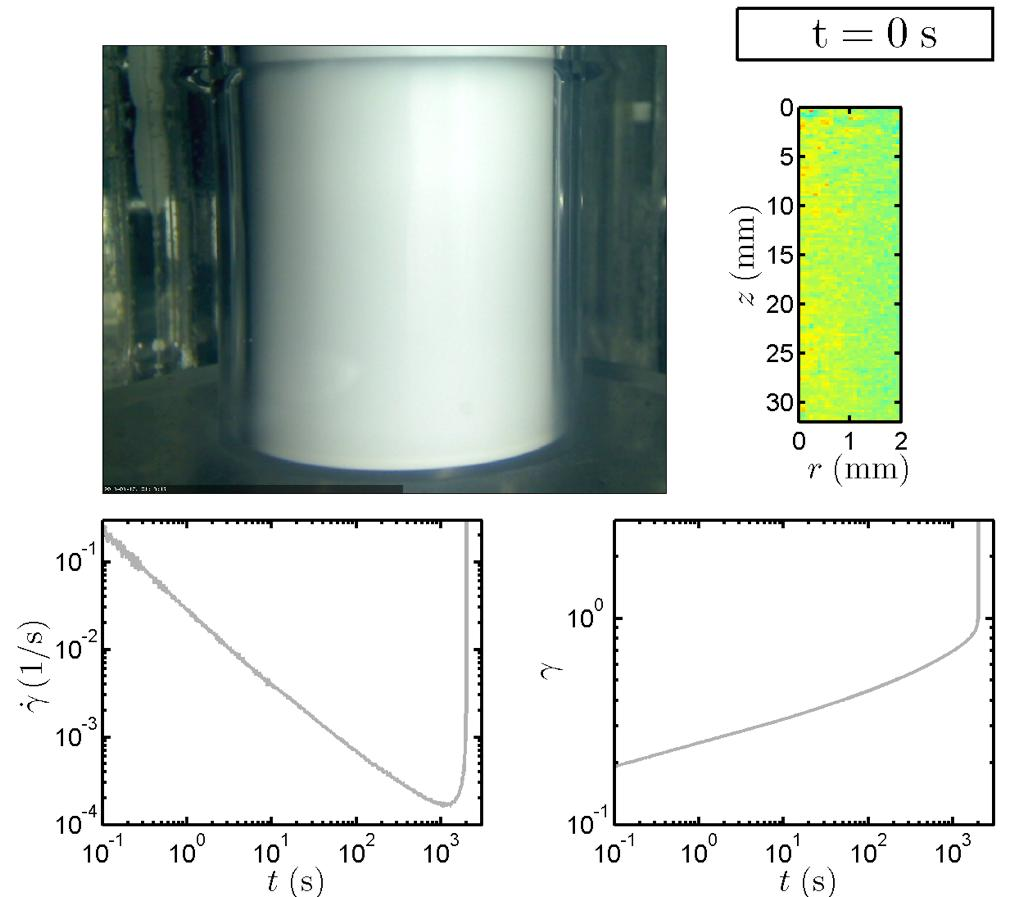
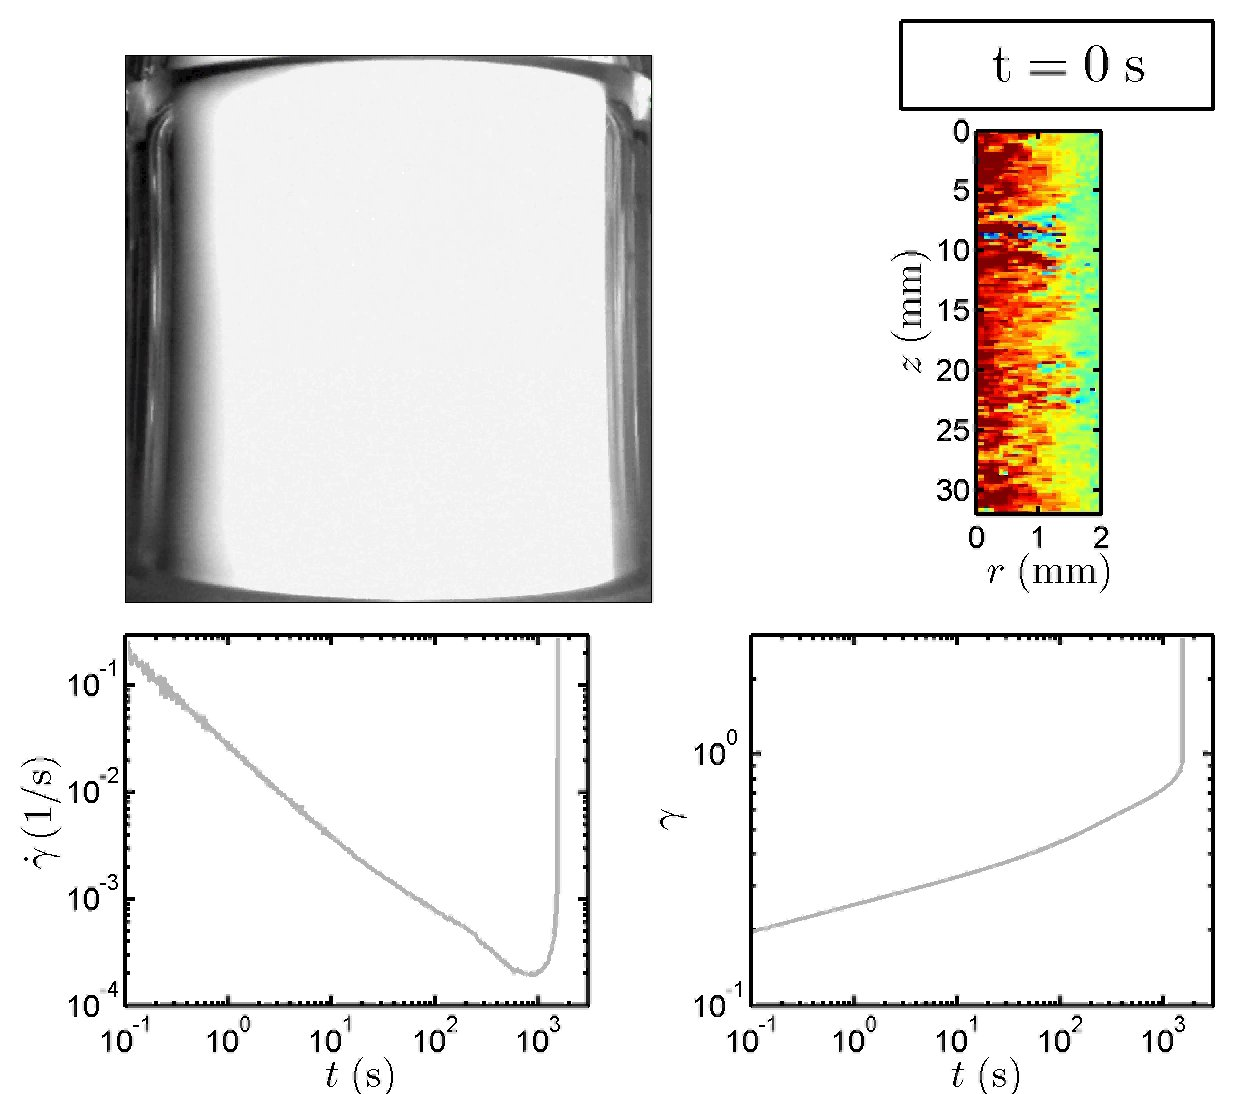
use the enhanced version of the creep_experiment video, update Couette sketch

diff --git a/seminaire_Tanakalab.tex b/seminaire_Tanakalab.tex
@@ -183,7 +183,7 @@ Wikimedia Commons & www.madaboutscience.com & www.keautystore.com\\
 %\section{Our system: Yoghurt}
 
 
-\tikzset{external/force remake}
+%\tikzset{external/force remake}
 \begin{frame}{Acid-set protein gel (Yoghurt)}
 \begin{block}{Recipe}
 \begin{itemize}
@@ -286,7 +286,7 @@ Wikimedia Commons & www.madaboutscience.com & www.keautystore.com\\
 
 
 
-\section{Creep and yielding}
+\section*{Creep and yielding}
 
 \begin{frame}{Merciless yoghurt breakers}
 \begin{tabu}{X[c]X[c]c}
@@ -319,29 +319,30 @@ E.N.S. Lyon &  CRPP Bordeaux & E.N.S. Lyon\\
 \end{tikzpicture}
 \end{frame}
 
-%\tikzset{external/force remake}
+\tikzset{external/force remake}
 \begin{frame}{The yoghurt creep experiment}
 \movie[externalviewer]{\begin{tikzpicture}
 \node[inner sep=0] (a) {\includegraphics[height=16\baselineskip]{creep_experiment.jpg}};
-\begin{scope}[shift={(a.north west)}, shift={(7.2\baselineskip,-1.1\baselineskip)}, ultra thick]
-	\draw[Accent1] ellipse[x radius=2.9\baselineskip, y radius=0.7\baselineskip] ++(2.9\baselineskip,0)  -- ++(0,-6.6\baselineskip)  ++(-2.9\baselineskip,0) ellipse[x radius=2.9\baselineskip, y radius=0.7\baselineskip] ++(-2.9\baselineskip,0)  -- ++(0,6.6\baselineskip);
-	\shadedraw[Accent2,ball color=Accent2] ellipse[x radius=2\baselineskip, y radius=0.4\baselineskip] ++(2\baselineskip,0)  -- ++(0,-6.6\baselineskip)  ++(-2\baselineskip,0) ellipse[x radius=2\baselineskip, y radius=0.4\baselineskip] ++(-2\baselineskip,0)  -- ++(0,6.6\baselineskip);
+\begin{scope}[shift={(a.north west)}, shift={(5.8\baselineskip,-1.1\baselineskip)}, ultra thick]
+	\draw[Accent1, x radius=3.1\baselineskip, y radius=0.3\baselineskip] ellipse ++(3.1\baselineskip,0)  -- ++(0,-7.4\baselineskip)  ++(-3.1\baselineskip,0) ellipse[] ++(-3.1\baselineskip,0)  -- ++(0,7.4\baselineskip);
+	\shadedraw[Accent2,ball color=Accent2, x radius=2\baselineskip, y radius=0.1\baselineskip] ellipse ++(2\baselineskip,0)  -- ++(0,-7.4\baselineskip)  ++(-2\baselineskip,0) ellipse[] ++(-2\baselineskip,0)  -- ++(0,7.4\baselineskip);
 	\fill[Accent2, left color=black,right color=black, middle color=Accent2, ] (-0.3\baselineskip,0) rectangle +(0.6\baselineskip, \baselineskip);
 	\begin{scope}[Main]
-		\node[draw, minimum height=3.5\baselineskip, minimum width=1.2\baselineskip] at (2.4\baselineskip,-3.35\baselineskip) (window){};
-		\node[draw, minimum height=7.5\baselineskip, minimum width=4\baselineskip] at (7.5\baselineskip,-4\baselineskip) (USV){};
+		\node[draw, minimum height=4.2\baselineskip, minimum width=1.5\baselineskip] at (2.5\baselineskip,-4\baselineskip) (window){};
+		\node[draw, minimum height=7.2\baselineskip, minimum width=4\baselineskip] at (8.9\baselineskip,-4.2\baselineskip) (USV){};
 		\draw(window.north east) -- (USV.north west) (window.south east) -- (USV.south west);
 		\node[right, text width=4\baselineskip] at (USV.east) {ultrasound region of interest};
 	\end{scope}
 \end{scope}
 \draw[->] (window.north west) ++(-1em, 0.2em) -- +(1em,0) node[midway,above,inner sep=1pt] {$r$};
 \draw[->] (window.north west) ++(-1em, 0.2em) -- +(0,-1em)  node[midway,left] {$z$};
+\draw[<->] ++(-2\baselineskip,-\baselineskip) -- +(-1.1\baselineskip,0) node[midway,above] {\SI{2}{\milli\metre}};
 \node[text width=4\baselineskip] at (-3\baselineskip,-2.5\baselineskip) {shear rate response};
 \node at (5\baselineskip,-2.5\baselineskip) {strain response};
 \end{tikzpicture}%
 }{/home/mathieu/Dropbox/Yaourt/films/Yaourt141_enhanced.avi}
 \end{frame}
-
+\tikzset{external/force remake=false}
 
 \begin{frame}{Creep rheology: Three regimes}
 \begin{tikzpicture}
